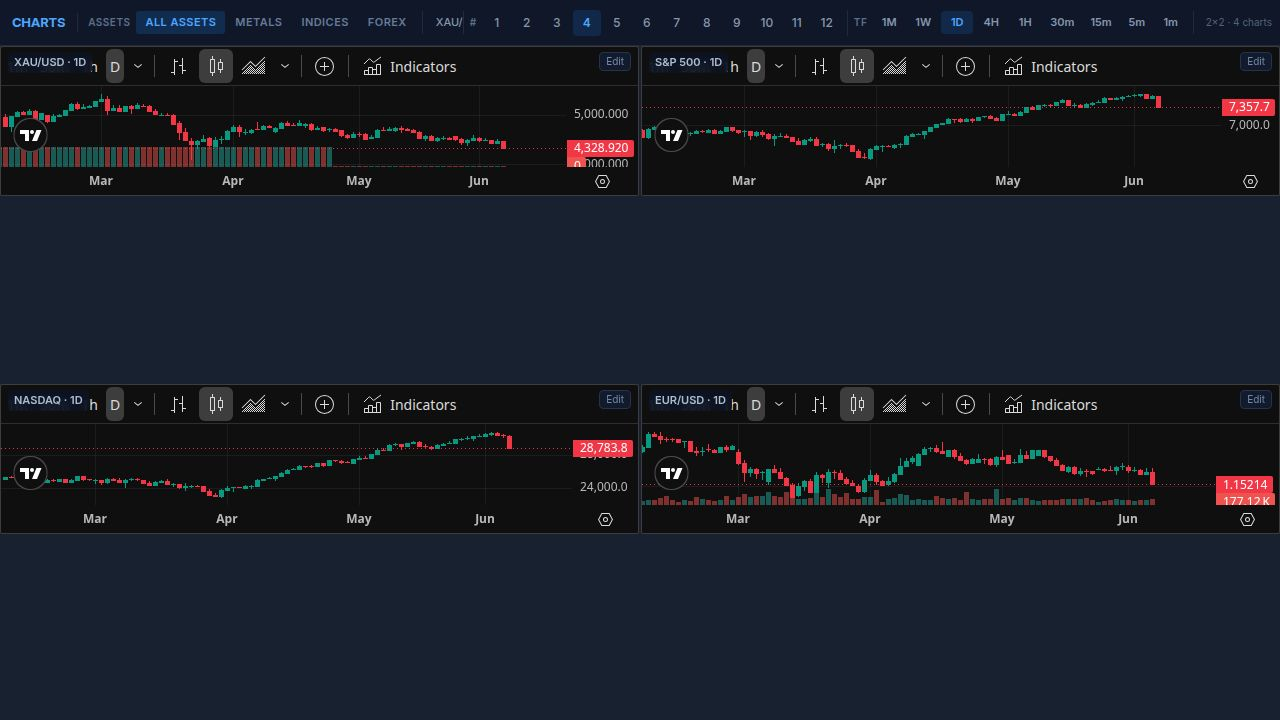
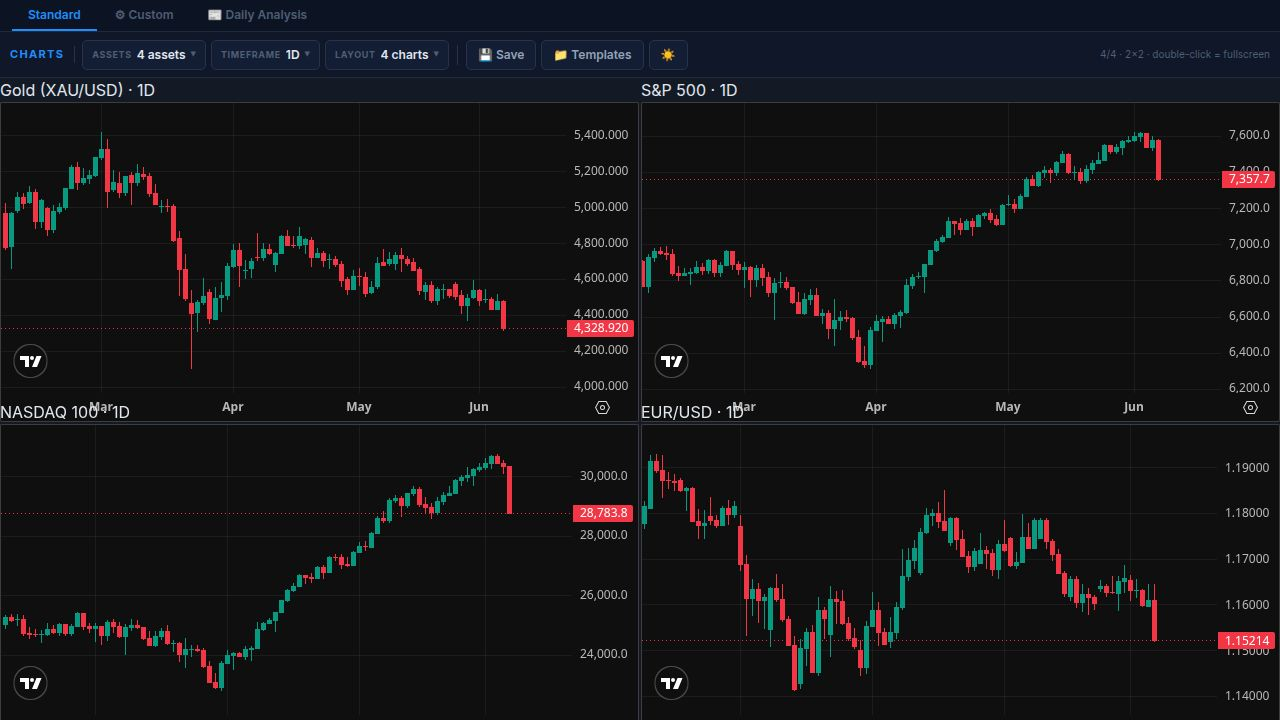
Add a daily analysis tab and improve email error handling
Add imapflow and mailparser dependencies, configure esbuild to exclude them, and update email route error handling for authentication failures.

Replit-Commit-Author: Agent
Replit-Commit-Session-Id: d5675234-e84c-48d5-aa8e-e50098e5464a
Replit-Commit-Checkpoint-Type: full_checkpoint
Replit-Commit-Event-Id: 182004e0-759a-493f-9f5f-c2ded0b34833
Replit-Commit-Screenshot-Url: https://storage.googleapis.com/screenshot-production-us-central1/89c38f69-13c8-4f56-9226-e6b08704a42e/d5675234-e84c-48d5-aa8e-e50098e5464a/5jRsqMT
Replit-Helium-Checkpoint-Created: true

diff --git a/artifacts/trading-dashboard/src/index.css b/artifacts/trading-dashboard/src/index.css
@@ -434,6 +434,84 @@ html.light {
   color: hsl(var(--red));
 }
 
+/* ── Chart label overlay ── */
+.chart-label {
+  position: absolute;
+  top: 6px;
+  left: 8px;
+  z-index: 2;
+  font-size: 11px;
+  font-weight: 600;
+  color: hsl(var(--text2));
+  background: hsl(var(--bg2) / 0.75);
+  backdrop-filter: blur(4px);
+  padding: 2px 7px;
+  border-radius: 4px;
+  pointer-events: none;
+  white-space: nowrap;
+}
+
+/* ── Daily Analysis ── */
+.daily-meta {
+  display: flex;
+  align-items: center;
+  gap: 10px;
+  overflow: hidden;
+  min-width: 0;
+}
+.daily-subject {
+  font-size: 12px;
+  font-weight: 600;
+  color: hsl(var(--text));
+  white-space: nowrap;
+  overflow: hidden;
+  text-overflow: ellipsis;
+  max-width: 340px;
+}
+.daily-from {
+  font-size: 11px;
+  color: hsl(var(--muted));
+  white-space: nowrap;
+}
+.daily-date {
+  font-size: 11px;
+  color: hsl(var(--muted));
+  white-space: nowrap;
+}
+
+.daily-loading {
+  position: absolute;
+  inset: 0;
+  display: flex;
+  flex-direction: column;
+  align-items: center;
+  justify-content: center;
+  gap: 14px;
+  color: hsl(var(--muted));
+  font-size: 13px;
+}
+.daily-spinner {
+  width: 32px;
+  height: 32px;
+  border: 3px solid hsl(var(--border));
+  border-top-color: hsl(var(--primary));
+  border-radius: 50%;
+  animation: spin 0.8s linear infinite;
+}
+@keyframes spin { to { transform: rotate(360deg); } }
+
+.daily-error {
+  position: absolute;
+  inset: 0;
+  display: flex;
+  flex-direction: column;
+  align-items: center;
+  justify-content: center;
+  gap: 6px;
+  padding: 32px;
+  color: hsl(var(--text));
+}
+
 /* ── Empty state ── */
 .empty-state {
   flex: 1;

diff --git a/artifacts/api-server/src/routes/email.ts b/artifacts/api-server/src/routes/email.ts
@@ -79,10 +79,17 @@ router.get("/emails/latest", async (req, res) => {
     }
     res.json(email);
   } catch (err: unknown) {
-    const message = err instanceof Error ? err.message : String(err);
     req.log.error({ err }, "Failed to fetch email");
+    const message = err instanceof Error ? err.message : String(err);
+    const isAuth = err instanceof Error && (err as { authenticationFailed?: boolean }).authenticationFailed;
+
     if (message.includes("GMAIL_USER") || message.includes("GMAIL_APP_PASSWORD")) {
       res.status(503).json({ error: "not_configured", message });
+    } else if (isAuth) {
+      res.status(401).json({
+        error: "auth_failed",
+        message: "Gmail authentication failed. Please check:\n1. IMAP is enabled in Gmail Settings → See All Settings → Forwarding and POP/IMAP → Enable IMAP\n2. Your App Password is correct (16 chars, no spaces)\n3. 2-Step Verification is active on your Google Account"
+      });
     } else {
       res.status(500).json({ error: "fetch_failed", message });
     }
